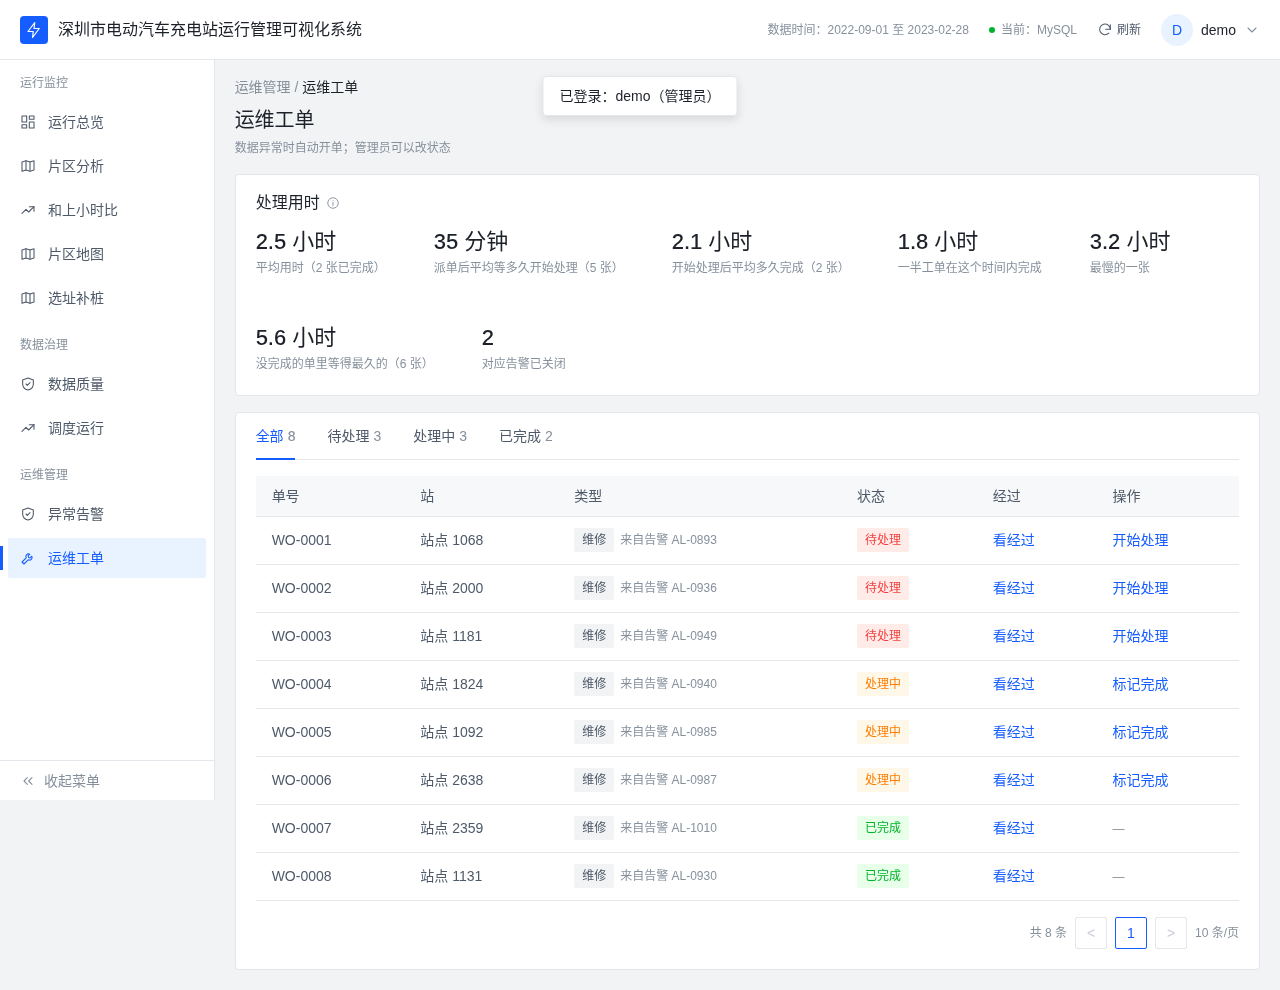
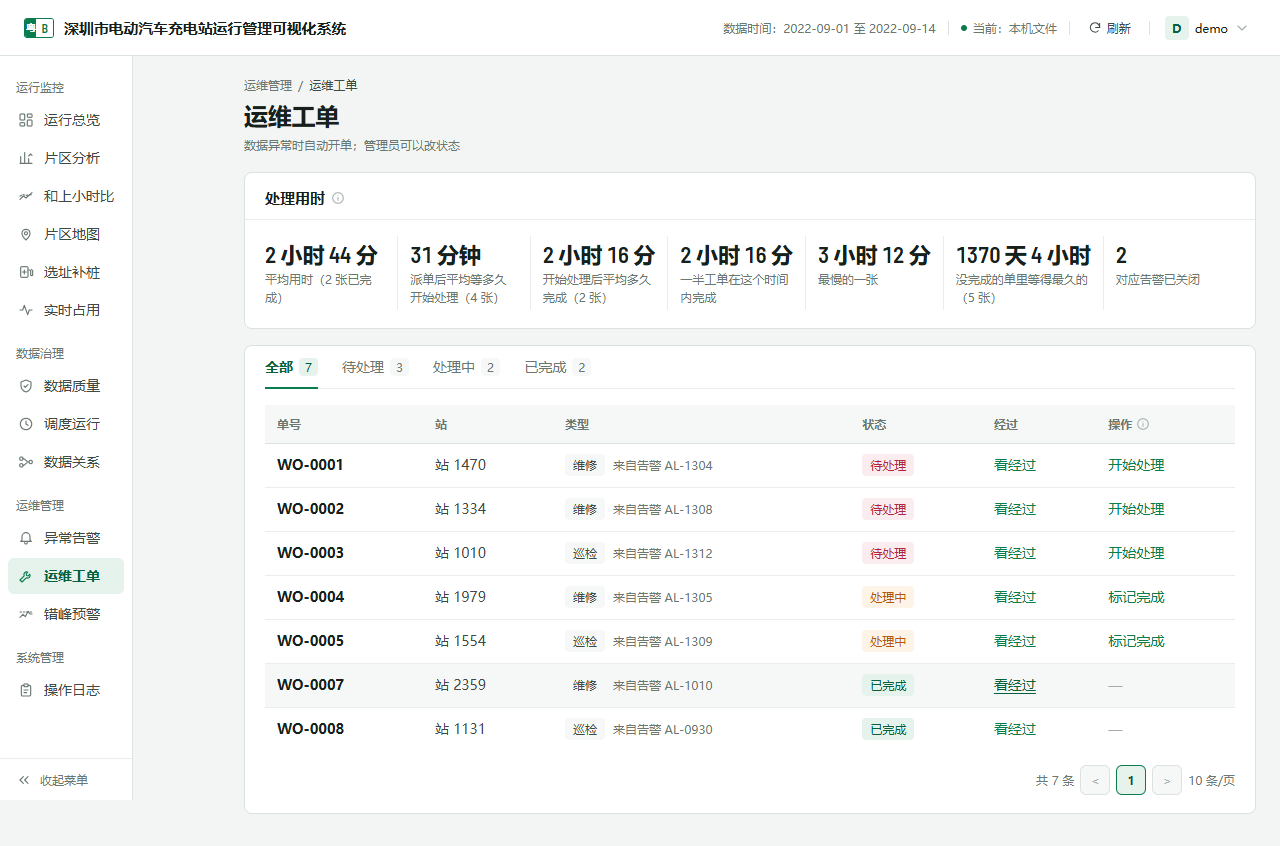
docs(ui): update design system spec and refresh all 20 screenshots

diff --git a/docs/ui_redesign_spec.md b/docs/ui_redesign_spec.md
@@ -1,175 +1,113 @@
-# 前端改版规范：深圳市电动汽车充电站运行管理可视化系统
+# 前端设计系统规范：「绿牌 · 电量格」深圳充电站调度台
 
-适用文件：`web/index.html`（纯 HTML/CSS + ECharts 5，不引入 React/Vue）
-执行人：小黄（唯一改动人）；其他人只提意见。
+适用文件：`web/index.html`（单文件纯 HTML / CSS / 原生 JS + ECharts 5.5.1 + Google Fonts Barlow Semi Condensed，无前端框架与构建步骤）。
 
-## 1. 现状问题（为什么看着"AI味"）
-基于 main@8062ec7 的 `web/index.html` 逐条列出：
-1. **深蓝黑底 + 亮色字**（`--bg:#0b1220; --card:#121a2b`）：这是 AI 生成大屏的默认配色。真实运营后台以浅色为主，深色大屏只用在投屏场景。
-2. **没有信息架构**：一页平铺 6 个卡片，没有侧边导航、面包屑和页面标题区，不像"系统"，更像一张"海报"。
-3. **把开发术语直接露给用户**：标题区写着 `overview / zone / quality / baseline / tickets`、"工单 stub"、"只读登录 stub"、"naive 基线"、`readonly/admin`、`row_missing_rate` 原始字段名，还有 MOCK/LIVE 胶囊徽章。
-4. **卡片样式千篇一律**：10px 圆角、1px 描边，KPI 只有"标签+大数字"，没有单位、对比和口径说明。
-5. **质检用柱状图展示 4 个量纲不同的数字**（比率和个数混在一张图里），可读性差，属于"为了有图而画图"。
-6. **工单表的按钮是亮蓝实心小按钮**，状态直接显示英文（open/processing/done），没有状态标签色。
-7. **登录被做成页面中间的一个卡片**，输出是 `<pre>` JSON。真实系统的登录要么是独立页，要么放在右上角用户菜单里。
-8. 字体只写了 `"Segoe UI"`，中文字体会回退得不一致；字号层级只有 18/14/12/11，层级太扁。
+---
 
-## 2. 改版方向：类 Arco Design Pro 的浅色企业控制台
-选这个方向的理由：Arco 是字节跳动的设计系统，面试官一眼就认得出"规范的中后台"；另外它只需要用 CSS 变量就能复刻，不依赖组件库。
+## 1. 设计方向与视觉锚点
 
-### 2.1 颜色 Token（取自 Arco 默认主题）
-| Token | Hex | 用途 |
+全站仅在三处发力，其余区域保持低噪、平整、信息密度清晰的调度值班台气质：
+
+1. **新能源绿牌**：深圳街头最常见的电车视觉符号。决定主色 `--plate (#0A7D4F)` 与品牌标——一枚 `30×20px` 双色拼接「粤B」迷你号牌（左 40% `--plate` 底白字「粤」+ 右 60% 纯白底 `--plate` 字「B」，1px 绿框，3px 圆角，无渐变）。
+2. **电量格组件（`cellMeter`）**：充电桩与车机上的分段电量条，是全站唯一的视觉记忆点，统一用于表示「占用率」（总览主读数、实时页横向分段排行与全站表格占用率列）。
+3. **调度值班台**：读数有气场、色彩只服务数据、卡片零阴影、无渐变、无毛玻璃、无发光霓虹、无 999px 胶囊、无 emoji、浅色单主题。
+
+---
+
+## 2. 颜色 Token（`:root` 唯一色板）
+
+| Token | 色值 | 用途 |
 |---|---|---|
-| --primary-6 | #165DFF | 主色：主按钮、选中菜单、链接、主折线 |
-| --primary-1 | #E8F3FF | 选中菜单底色、浅标签底 |
-| --primary-5 | #4080FF | hover |
-| --primary-7 | #0E42D2 | active |
-| --success-6 | #00B42A | 已完成、正常 |
-| --success-1 | #E8FFEA | |
-| --warning-6 | #FF7D00 | 高缺失、处理中 |
-| --warning-1 | #FFF7E8 | |
-| --danger-6 | #F53F3F | 卡死、待处理维修 |
-| --danger-1 | #FFECE8 | |
-| --text-1 | #1D2129 | 标题、正文主色 |
-| --text-2 | #4E5969 | 次要正文、表格内容 |
-| --text-3 | #86909C | 说明、坐标轴标签 |
-| --text-4 | #C9CDD4 | 禁用 |
-| --border | #E5E6EB | 卡片和表格分割线 |
-| --fill-1 | #F7F8FA | 表头、悬停行 |
-| --fill-2 | #F2F3F5 | 页面背景 |
-| --bg-white | #FFFFFF | 卡片、顶栏、侧栏 |
+| `--bg` | `#F3F5F4` | 页面底色（微绿调水泥灰） |
+| `--surface` | `#FFFFFF` | 卡片、顶栏、侧栏、弹层 |
+| `--surface-sub` | `#F6F8F7` | 表头底色、表格悬停行、展开明细底 |
+| `--ink-1` | `#17201D` | 页面标题、主读数、主对象 |
+| `--ink-2` | `#3D4A45` | 正文、表格主体、次按钮文字 |
+| `--ink-3` | `#6B7872` | 辅助说明、坐标轴、侧栏分组标题、表头、单位 |
+| `--ink-4` | `#A3ADA8` | 禁用态、占位符、只读无操作「—」 |
+| `--line` | `#DCE2DF` | 卡片边框、顶栏/侧栏边框、顶栏竖线分隔 |
+| `--line-soft` | `#E9EDEB` | 表格横行线、内部细分割、未点亮电量格 |
+| `--plate` | `#0A7D4F` | 主色（绿牌）：主按钮、链接、选中图标、主折线、焦点描边（白底对比度约 5.29:1） |
+| `--plate-strong` | `#06603C` | hover / active、选中菜单文字 |
+| `--plate-tint` | `#E6F3EC` | 选中菜单底、主色浅标签底 |
+| `--amber` / `--amber-tint` | `#B45309` / `#FDF3E7` | 警告、处理中、数据延迟 >60s、占用率 ≥90%「排满」 |
+| `--red` / `--red-tint` | `#B4233C` / `#FBEDEF` | 故障、读数异常、待处理、失败 |
+| `--slate` | `#56677A` | 第二序列：上一小时对照/预测虚线、估算负荷柱、中层节点 |
+| `--shadow-pop` | `0 8px 24px -6px rgba(23,32,29,.16)` | 仅用于下拉菜单、弹窗、Toast 与 ECharts Tooltip；卡片严格无阴影 |
 
-全站只用这一套颜色。**禁止渐变**和半透明发光色。
+### 2.1 占用率固定刻度 `occColor(v)`
 
-### 2.2 字体与字号
-`font-family: -apple-system, BlinkMacSystemFont, "PingFang SC", "Microsoft YaHei", "Helvetica Neue", Arial, sans-serif;`
-数字列和 KPI 数值加 `font-variant-numeric: tabular-nums;`
+地图、电量格、实时排行与所有表格统一调用 `occColor(v)`：
 
-| 层级 | 字号/行高 | 字重 |
+| 区间 | 色值 | 说明 |
 |---|---|---|
-| 页面标题 | 20px / 28px | 500 |
-| 卡片标题 | 16px / 24px | 500 |
-| 正文/表格 | 14px / 22px | 400 |
-| 辅助说明 | 12px / 20px | 400 |
-| KPI 数值 | 28px / 36px | 600 |
+| `0% – <20%` | `#DDEFE5` | 极低占用（白底配 `#B8DEC9` / `#8CC5A8` 细边防融合） |
+| `20% – <40%` | `#A6D7BC` | 较空 |
+| `40% – <60%` | `#5DB98A` | 适中 |
+| `60% – <75%` | `#1F9562` | 偏忙 |
+| `75% – <90%` | `#0A7D4F` | 繁忙 |
+| `≥ 90%` | `#B45309` | 排满（读数同步切琥珀色） |
+| 无数据 | `#E3E7E5`（空心） | 地图空心灰圈；电量格全空心描边并显示「暂无」 |
 
-### 2.3 间距、圆角、阴影
-- 栅格基准 4px，常用间距为 4 / 8 / 12 / 16 / 20 / 24。
-- 内容区内边距 20px；卡片之间的间距 16px；卡片内边距 20px（头部 16px 20px）。
-- 圆角：卡片 4px，按钮/输入框 2px，标签 2px。不要再用 10px 或 999px。
-- 阴影：卡片默认**没有阴影**，只靠 `1px solid #E5E6EB` 或白底和灰底的对比区分层次；下拉层和弹窗用 `0 4px 10px rgba(0,0,0,.1)`。
+### 2.2 ECharts 主题（`szPlate`）
 
-### 2.4 布局骨架
-```
-┌──────────── 顶栏 60px（白底，底边 1px 描边）──────────────┐
-│ Logo+系统名 │                    数据日期 · 刷新 · 用户头像▼ │
-├────────┬──────────────────────────────────────────────────┤
-│ 侧栏    │ 面包屑：运行监控 / 运行总览                          │
-│ 220px  │ 页面标题 20px + 一行说明                            │
-│ 可折叠  │ ┌─卡片─┐ ┌─卡片─┐ …                                 │
-│ 为 48px │                                                  │
-└────────┴──────────────────────────────────────────────────┘
-```
-- 侧栏：白底，菜单项高 40px，选中态为 `--primary-1` 底、`--primary-6` 字，左侧加一条 3px 主色竖条；图标统一用 16px 线性 SVG（可从 Arco icon 或 Tabler 内联），**禁止 emoji**。
-- 1280 宽：侧栏 220 + 内容 1060（减去 20×2 内边距后约 1020px）。KPI 一行 4 张（2 行），图表区为 2 列（12+12 栅格）。
-- 1920 宽：内容区 `max-width:1600px`，KPI 一行 6 张，图表区为 16+8 两列（主图+侧栏卡片）。
-- 小于 1100px 时侧栏自动折叠成 48px，只显示图标。
-- 用 CSS Grid 24 栅格：`.grid{display:grid;grid-template-columns:repeat(24,minmax(0,1fr));gap:16px}`，再用 `.col-12`、`.col-8` 之类的类控制宽度。
+- 统一通过 `echarts.registerTheme("szPlate", ...)` 注册。
+- 调色板：`['#0A7D4F', '#56677A', '#C98A1B', '#2F6FB0', '#B4233C', '#9AA6A0']`。
+- 面积填充仅使用主色 8% 透明度纯色 `rgba(10,125,79,0.08)`；误差柱使用 `rgba(201,138,27,0.60)`；全站禁止 `LinearGradient` 与 `shadowBlur`。
 
-### 2.5 KPI 卡规范
-```
-┌────────────────────────────┐
-│ 平均占用率          ⓘ        │ 12px text-3；ⓘ 悬停显示口径
-│ 42.0 %                      │ 28px 600 text-1，单位 14px text-2
-│ 较前一日 ↑ 3.2%  │ 峰值时段 19:00 │ 12px，涨跌用 success/danger 色
-└────────────────────────────┘
-```
-- 白底，`1px #E5E6EB` 描边，4px 圆角，内边距 20px，高度 112px。
-- 异常类 KPI（卡死站、高缺失站）的数值用 danger/warning 色，**不要给整张卡片加底色**。
-- 可选：右侧放 64×32 的迷你折线（ECharts，不显示坐标轴）。
+---
 
-### 2.6 表格与标签
-- 表头底色 `#F7F8FA`、字色 text-2、字重 500、行高 40px；单元格行高 48px，只保留横向分割线 `#E5E6EB`，悬停行 `#F7F8FA`。
-- 状态用 Tag 组件：高 24px、内边距 0 8px、2px 圆角、浅底深字。
-  - 待处理：`danger-1` 底 / `danger-6` 字
-  - 处理中：`warning-1` / `warning-6`
-  - 已完成：`success-1` / `success-6`
-  - 巡检/维修类型：灰底 `#F2F3F5` / text-2
-- 操作列用文字按钮（主色字、无底色），如「流转到下一状态」；不用实心小蓝按钮。
-- 按钮：主按钮 32px 高、`#165DFF` 底；次按钮白底加 `#E5E6EB` 描边。
+## 3. 字体栈、字号阶梯与圆角层次
 
-### 2.7 ECharts 主题（用 `echarts.registerTheme('arcoLight', …)` 一次注册）
-```js
-{
-  color: ['#165DFF','#14C9C9','#F7BA1E','#722ED1','#F53F3F','#00B42A'],
-  backgroundColor: 'transparent',
-  textStyle: { fontFamily: 'inherit', color: '#4E5969', fontSize: 12 },
-  title: { show: false },              // 标题统一写在卡片头，不放在图里
-  grid: { left: 48, right: 16, top: 40, bottom: 32, containLabel: false },
-  legend: { top: 0, right: 0, icon: 'roundRect', itemWidth: 12, itemHeight: 4,
-            textStyle: { color: '#4E5969' } },
-  categoryAxis: { axisLine:{lineStyle:{color:'#E5E6EB'}}, axisTick:{show:false},
-                  axisLabel:{color:'#86909C'}, splitLine:{show:false} },
-  valueAxis:    { axisLine:{show:false}, axisTick:{show:false},
-                  axisLabel:{color:'#86909C'},
-                  splitLine:{lineStyle:{color:'#E5E6EB', type:'dashed'}} },
-  line: { symbol:'none', smooth:false, lineStyle:{width:2} },
-  bar:  { barMaxWidth: 24, itemStyle:{ borderRadius:[2,2,0,0] } },
-  tooltip: { trigger:'axis', backgroundColor:'#fff', borderColor:'#E5E6EB',
-             borderWidth:1, padding:[8,12], textStyle:{color:'#1D2129',fontSize:12},
-             extraCssText:'box-shadow:0 4px 10px rgba(0,0,0,.1);border-radius:4px;',
-             axisPointer:{ type:'line', lineStyle:{color:'#C9CDD4', type:'dashed'} } }
-}
-```
-- 面积图只允许用主色 8% 透明度的**纯色**填充，不用渐变。
-- 占用率坐标轴显示百分比（`formatter: v => (v*100).toFixed(0)+'%'`），时间轴写 `MM-DD HH:mm`。
-- 图表高度：主图 320px，次图 260px。要监听窗口 resize，侧栏折叠时也要触发 `chart.resize()`。
+- **中文与正文栈**：`"PingFang SC", "HarmonyOS Sans SC", "MiSans", "Microsoft YaHei", system-ui, sans-serif`。
+- **仪表读数栈**：Google Fonts `Barlow Semi Condensed`（500 / 600）+ `font-feature-settings: "tnum" 1`（Chromium 实测 `111` 与 `888` 渲染宽度严格等宽：`54.765625px`），仅用于 KPI 数值、电量格百分比与时间读数（如 `18:00`、`23:55–00:10`、工单处理用时）。
 
-## 3. 页面结构与导航（对应现有功能）
-单页内用 hash 路由（`#/overview` 等），各视图用 `display` 切换，不引入框架。
-
-| 侧栏菜单 | 面包屑 | 内容 | 用到的现有接口 |
+| 层级 | 字号 / 行高 | 字重 | 字体 |
 |---|---|---|---|
-| 运行监控 › 运行总览 | 运行监控 / 运行总览 | KPI 卡 6 张（站点数、片区数「23（18 个有效）」、平均占用率、峰值时段、卡死站、高缺失站）+ 全市占用率趋势 + 工单概况 | /api/overview, /api/zones |
-| 运行监控 › 片区分析 | 运行监控 / 片区分析 | 筛选栏（片区下拉、日期范围、查询/重置按钮）+ 占用率与估算负荷双轴图 + 明细表 | /api/zone/series (from/to) |
-| 运行监控 › 基线对比 | 运行监控 / 基线对比 | 实际值与「上一时刻基线」预测折线 + 绝对误差柱图 + MAE 指标卡 | /api/baseline |
-| 数据治理 › 数据质量 | 数据治理 / 数据质量 | 4 张质检指标卡（缺失率 26.42%、卡死站 4、高缺失站 6、样本站 25）+ 异常站点表（站点、片区、问题类型 Tag、缺失率） | /api/quality |
-| 运维管理 › 运维工单 | 运维管理 / 运维工单 | 状态统计 Tab（全部/待处理/处理中/已完成）+ 工单表 + 文字按钮流转 | /api/tickets |
-| 右上角用户菜单 | — | 头像下拉里显示当前用户和角色「只读访客」；登录改成独立的简洁登录页或弹窗（账号、角色、登录按钮），只读角色下隐藏流转按钮 | /api/login |
+| 总览主读数（平均占用率） | `56px / 60px` | `600` | Barlow Semi Condensed |
+| KPI 数值 | `36px / 40px` | `600` | Barlow Semi Condensed（单位 `13px` 正文栈 `--ink-3`） |
+| 页面标题 | `24px / 32px` | `600` | 系统中文栈 |
+| 卡片标题 | `15px / 22px` | `600` | 系统中文栈 |
+| 正文 / 表格内容 | `14px / 22px` | `400` | 系统中文栈 |
+| 辅助文字 / 表头 / 侧栏分组 | `12px / 18px` | `400`（表头 `600`） | 系统中文栈 |
 
-- 数据来源状态（原 MOCK/LIVE）放到顶栏右侧，写成「数据源：MySQL 实时 / 离线样例」的小号灰字加 6px 状态圆点，不要用彩色胶囊。
-- 顶栏显示「数据窗口：2022-09-01 至 2022-09-14」。
-- 每张卡片头右侧放 ⓘ 口径说明（悬停 tooltip），这是面试时最好讲的细节。
+- **圆角分层**：卡片 `8px` ｜ 按钮/输入框/菜单项 `6px` ｜ Tag `4px` ｜ 品牌号牌 `3px` ｜ 电量格单元 `1.5px`。
+- **间距基准**：4px 网格；内容区左右 `24px`；卡片间距 `16px`；表格表头 `#F6F8F7`、行高 `44px`、仅横线、数字列右对齐、悬停行 `#F6F8F7`。
 
-## 4. 必须删掉或替换的内容
-- 深色背景 `#0b1220/#121a2b` 和所有深色变量（如果想保留投屏用的深色版，留到二期，本次不做）。
-- 所有渐变、`box-shadow` 发光、`backdrop-filter`、霓虹色描边、999px 胶囊徽章。
-- emoji 和装饰性符号（⚡🔌📊 等），包括按钮和标题里的。
-- 面向开发者的文案：stub、naive、mock、`overview / zone / …` 副标题、英文字段名（`row_missing_rate` 改成「数据缺失率」）、英文状态（改成中文 Tag）、`<pre>` 里的原始 JSON 输出。
-- 质检柱状图：改成指标卡加异常站点表。
-- 标题里的「（演示）」：`<title>` 改成「深圳市电动汽车充电站运行管理可视化系统」。
-- 不需要的动效：只保留 150ms 的 hover 过渡，去掉数字滚动和脉冲动画。
+---
 
-## 5. 参考来源与借鉴点
-| 参考 | 链接 | 借鉴什么 |
-|---|---|---|
-| Arco Design Pro（字节） | https://arco.design/pro 、https://github.com/arco-design/arco-design-pro | 整体骨架（60px 顶栏、220px 侧栏、面包屑）、色板、工作台页的指标卡和图表卡样式 |
-| Arco 设计令牌 | https://arco.design/react/docs/token 、https://arco.design/palette/list | 2.1 节色值、字号、圆角 |
-| Arco 数据可视化规范 | https://arco.design/docs/spec/data-visualization | 图表配色顺序、坐标轴和 tooltip 的克制风格 |
-| Ant Design Pro | https://preview.pro.ant.design/dashboard/analysis | 分析页 KPI 卡的「标题+数值+环比+底部说明」结构，以及筛选栏和表格页 |
-| TDesign Starter（腾讯） | https://tdesign.tencent.com/starter/vue-next/ | 统计卡加迷你趋势图、侧栏折叠交互、列表页 Tab 统计 |
-| Element Plus 后台（vue-element-admin / vue-pure-admin） | https://github.com/PanJiaChen/vue-element-admin 、https://pure-admin.github.io/vue-pure-admin | 国内常见后台的信息密度、标签页和表格操作列写法 |
-| Grafana | https://play.grafana.org | 时序图的克制做法：细线、虚线网格、tooltip 可同时对比多条序列；面板头部的 ⓘ 说明 |
-| 阿里云 DataV | https://datav.aliyun.com | 只作为反例和二期参考：投屏大屏才用深色，日常运营后台不用 |
-| 特来电 / 星星充电 / e充电 | https://www.teld.cn 、https://www.starcharge.com 、https://www.echargenet.com | 业务术语（场站、终端、充电量、利用率、运维工单），菜单可按「场站运营 / 运维 / 数据」分组；它们的运营平台需要登录，公开页面只能借鉴术语 |
+## 4. 电量格组件 `cellMeter(v, opts)` 规范
 
-## 本地参考截图
-- `refs/antd_pro_preview.png`：Ant Design Pro 官方 README 的预览图（分析页）
-- `refs/tdesign_starter_preview.png`：TDesign Vue Next Starter 官方 README 的预览图
+- **签名**：`cellMeter(v, { cells = 10, size = 'md', showVal = true, animate = false, label = '占用率' })`。
+- **尺寸**：
+  - `md`（总览主读数下方）：10 格，每格 `6×14px`，格间距 `2px`，圆角 `1.5px`。
+  - `sm`（全站表格占用率列与待关注站缺数比例列）：10 格，每格 `4×10px`，格间距 `2px`，圆角 `1.5px`。
+  - 末端固定配备 `2×6px` 电池正极凸起（`#C9D1CD`）。
+- **状态与语义**：
+  - 点亮格数 `Math.round(v * 10)`，填充色取自 `occColor(v)`；未点亮格 `#E9EDEB`。
+  - 无数据时全部 10 格空心描边，数值显示「暂无」。
+  - 容器标注 `role="meter"`、`aria-valuemin="0"`、`aria-valuemax="100"`、`aria-valuenow` 与 `aria-valuetext`。
+- **唯一自动动效**：总览首次加载时，主读数下方电量格从左到右逐格点亮一次（每格间隔 `25ms`，总时长 `345ms ≤ 400ms`）；在 `prefers-reduced-motion: reduce` 下直接展示最终态。其余交互仅保留 `120–150ms` 悬停与展开过渡。
 
-## 验收标准（小黄改完后自查）
-1. 1280×800 和 1920×1080 下都没有横向滚动条，KPI 不会被裁掉。
-2. 全文件 `grep -E "gradient|#0b1220|stub|naive|emoji"` 结果为空。
-3. 所有颜色都来自 2.1 节的 Token。
-4. 只读角色看不到工单流转按钮。
-5. 侧栏 5 个菜单都能切换，刷新页面后能停留在当前 hash。
+---
+
+## 5. 页面骨架与逐页要点
+
+- **外壳**：顶栏高 `56px` 白底，左「粤B」号牌 + 系统名，右纯文字「数据时间 | 数据源 | 刷新 | 用户」（1px 竖线分隔，无胶囊边框）。侧栏宽 `220px` 白底（折叠宽 `56px`），4 个分组标题 `12px --ink-3` 常规字重，菜单项高 `36px`，选中态 `--plate-tint` 底、`--plate-strong` 字、`--plate` 图标（无左竖条与阴影）。移动端 `≤700px` 切换为 `#mobileRoute` 下拉选择。
+- **运行总览（`overview`）**：顶部一体式「城市读数」横幅（通过 CSS `grid-area` 将 DOM 第 3 项平均占用率放于左侧主读数区：56px Barlow + `md` 电量格 + 峰值时段，右侧 5 列 1px 竖线分隔，严格保留 `#kpis .kpi-val` 下标顺序）；主图占 16 栏（主色细线 + 8% 纯色填充 + 琥珀虚线 `偏忙 75%`）；工单概况占 8 栏（单条 3 段状态堆叠条 + 3 行可点击按钮，无柱状图）；待关注站表格使用 Tag 与 `sm` 电量格。
+- **实时占用（`realtime`）**：顶部 4 指标带（数据延迟 >60s 切琥珀色）；「最忙的 20 个片区」改为横向 ECharts `pictorialBar` 分段电量格排行（左片区名、中 `occColor` 电量格、右 Barlow 百分比）；明细表使用 `sm` 电量格。
+- **片区地图（`map`）**：扁平深圳九区底图配 `#EEF1EF` 淡网格、等比锁定 `aspectScale: 0.923`，无经纬度轴标题与刻度；气泡颜色按 `occColor`、大小表示站点数、无数据画空心灰圈；时间轴为一体化播放器（播放按钮 + 24 段小格轨道滑杆 + Barlow 读数）；底部横向 6 段刻度图例（`0% … 90%+ 排满`）。
+- **片区分析 / 和上小时比（`zone` / `baseline`）**：实际值主色实线、上一小时对照与预测用 `--slate` 虚线、误差柱 `#C98A1B` 60% 透明度、白底多序列 Tooltip。
+- **异常告警（`alerts`）**：重排为 8 列（编号不折行｜对象与次行片区｜问题｜情况占最宽并 2 行截断可悬停/点击展开｜紧急程度｜日期/时刻两行时间｜状态红/琥珀/灰 Tag｜操作列未登录仅显灰色 `—`，说明收敛于表头 `操作 ⓘ`）。
+- **运维工单（`tickets`）**：处理用时改为单条横排 Barlow 读数；保留 5 步 `.flow .st`（已完成 `--plate`、当前实心加外圈、未到空心灰圈）。
+- **数据关系（`lineage`）**：六列节点按层使用 `--plate`、`--slate` 与灰阶深浅（去彩虹色），默认视图无任何英文字母。
+- **数据质量 / 调度运行 / 选址补桩 / 错峰预警 / 操作日志**：统一应用新 Token、无阴影卡片、44px 表格、`4px` Tag、Barlow 读数与 `sm` 电量格；移除了与电量格竞争的次级进度条与彩色排名框。
+
+---
+
+## 6. 无障碍与质量门禁
+
+- 对比度：所有正文、主色与语义色在对应底色上满足 WCAG AA `≥ 4.5:1`。
+- 键盘操作：`:focus-visible` 统一 `2px solid var(--plate)` 外描边偏移 `2px`；导航、Tabs、分页、侧栏折叠、用户菜单与弹窗均支持键盘完整操作。
+- 禁用词与洁癖检查：页面可见文案与 Tooltip 禁绝「口径、基线、窗口、血缘、stub、（无）、undefined、NaN、[object Object]」及英文状态值；静态扫描 `grep -nE "gradient|backdrop-filter|#0b1220|IBM Plex|stub|naive" web/index.html` 输出为空。
+- 视口兼容：`1280×800`、`1440×900`、`1920×1080` 与 `390×844` 全路由零横向滚动条，控制台零报错，除 `GET`/`OPTIONS`/`HEAD` 外不主动发出写请求。
